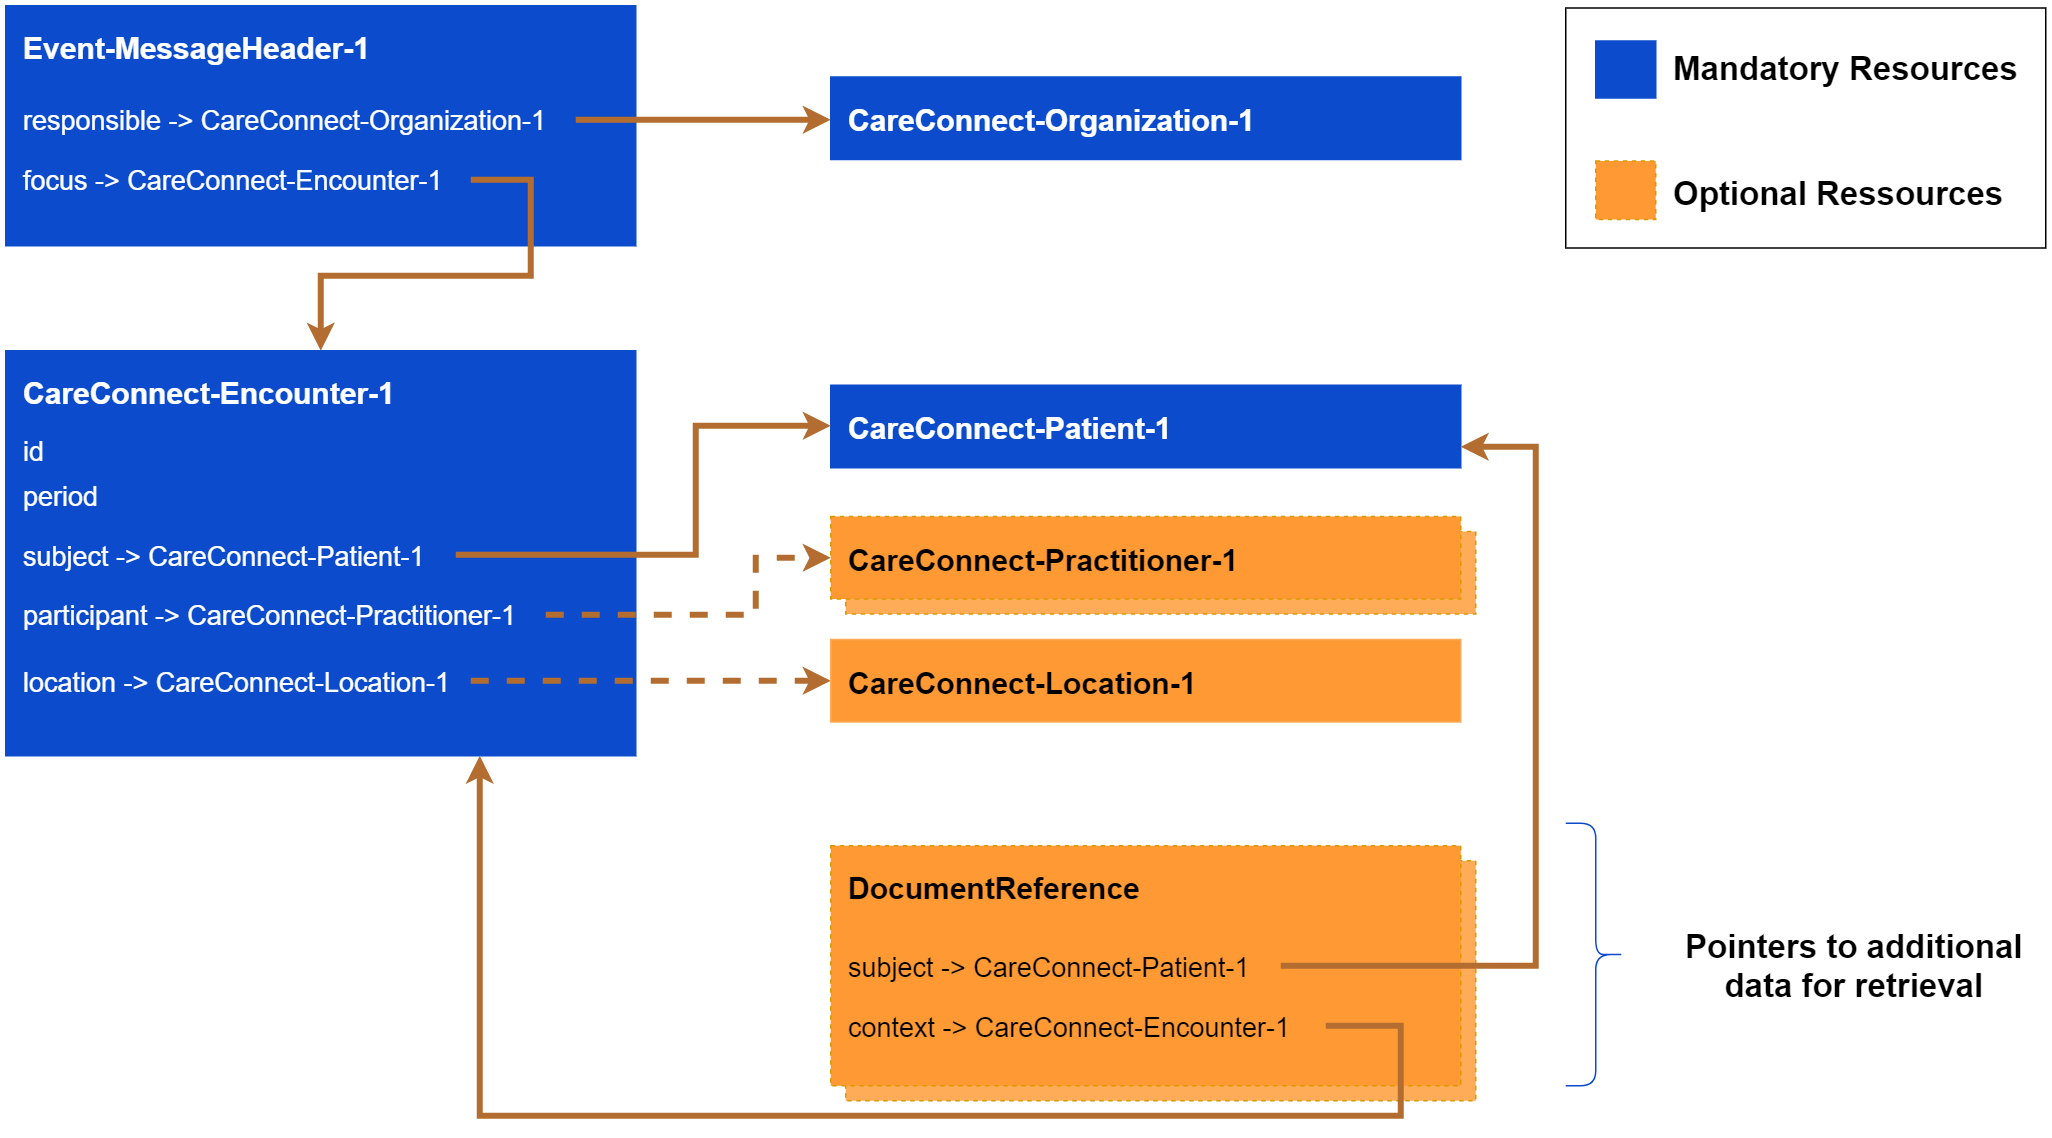
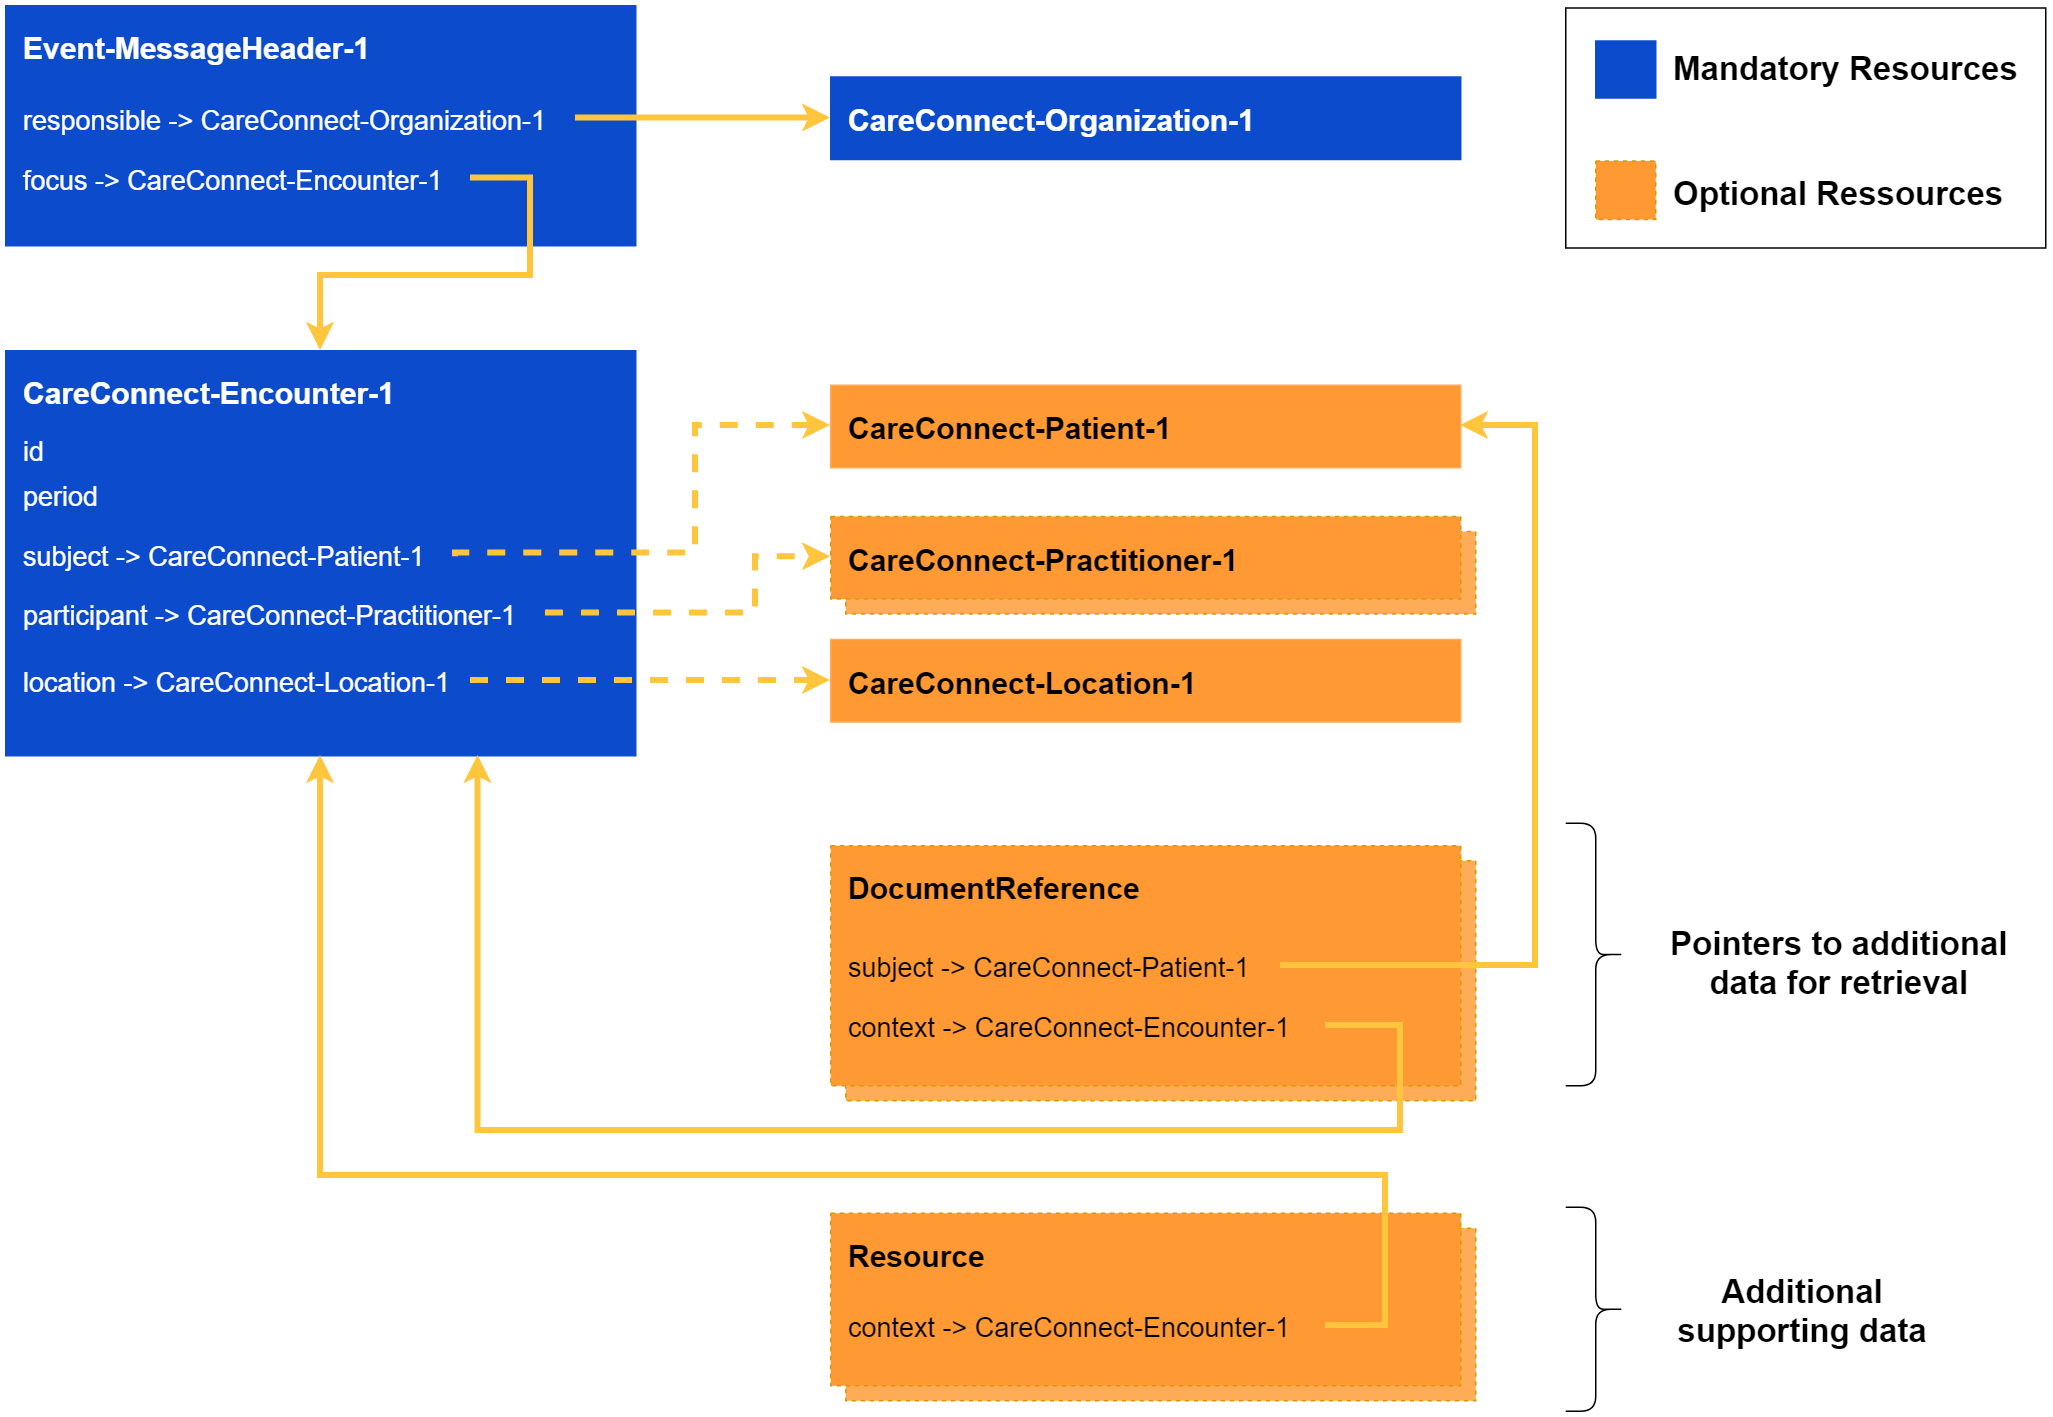
Updated encounter page based on discussions

diff --git a/js/customscripts.js b/js/customscripts.js
@@ -21,7 +21,30 @@ $( document ).ready(function() {
      */
     anchors.add('h2,h3,h4,h5');
 
+
+	// Handle Tab Panel Functionality -------------------------------------------------------------------------------------------------------------------
+	
+	// Add OnClick to tabPanelHeaders used in event messages pages for diagrams to toggle the visible tab body
+	$(".tabPanel .tabHeadings .tabHeading").click(function() {  
+		toggleTabPanel( $(this).attr("id") ); 
+	});
+	// Set first tabs to visible
+	toggleTabPanel($(".tabPanel .tabHeadings .tabHeading").first().attr("id"));
+
 });
+
+function toggleTabPanel(panelID) {
+	// Clear all panels
+	$(".tabBodies .tabBody").css("display","none");
+	
+	// Set the selected one as visible
+	var panelBodyID = "#" + panelID + "Body";
+	$(panelBodyID).css("display", "block");
+	
+	// Set the tab header to selected
+	$(".tabPanel .tabHeadings .tabHeading").removeClass("tabActive");
+	$("#" + panelID).addClass("tabActive");
+};
 
 // needed for nav tabs on pages. See Formatting > Nav tabs for more details.
 // script from http://stackoverflow.com/questions/10523433/how-do-i-keep-the-current-tab-active-with-twitter-bootstrap-after-a-page-reload

diff --git a/css/customstyles.css b/css/customstyles.css
@@ -1171,3 +1171,26 @@ div.box.box1 {
     fill: #4F81BD;
     fill-opacity: 0.2;
 } 
+
+.tabHeading {
+	background-color: #4b9ff1;
+	padding: 5px 10px 5px 10px;
+	color: white;
+}
+
+.tabHeading.tabActive {
+    background-color: #005eb8;
+    padding: 5px 10px 5px 10px;
+    color: white;
+}
+
+.tabBodies {
+    border: 2px solid #005eb8;
+    padding: 20px;
+	margin-top: 2px;
+}
+
+.tabPanel {
+	margin-top: 20px;
+	margin-bottom: 20px;
+}

diff --git a/pages/messages/messages/encounter_1.md b/pages/messages/messages/encounter_1.md
@@ -7,46 +7,61 @@ permalink: encounter_1.html
 summary: "Guidance and requirements for the Encounter event message"
 ---
 
-The `encounter` event is a generic event message which represent an encounter between a patient and a practitioner. The event message will be used in a number of different care settings for a variety of different use cases, therefore publishers will have to populate the encounter event message in a way that allows subscribers from any care setting to understand the encounter that took place. Subscribers also need to be aware that they may receive encounter events about encounters which are not relevant to their use case.
-
-The requirements and guidance on this page aims to set out a minimum set of information along with population guidance for the encounter event to allow subscribers from any care setting to understand the type of encounter that are published to the NEMS. The encounter event will contain contextual information about the encounter and define how publishers will share supporting information for the encounter.
-
+The `encounter` event is a generic event message which represent an encounter between a patient and a practitioner. The event message will be used in a number of different care settings for a variety of different use cases, therefore publishers should populate the encounter event message in a way that allows subscribers from any care setting to understand the encounter that took place. Subscribers also need to be aware that they will receive encounter events about encounters which are not relevant to their use cases.
 
 ## Event Message Content
 
-The `encounter` event is designed to be a [light weight](overview_msg_architecture_event_content.html) event message, which will contain minimal information to describe the encounter that occurred. As outlined on the [Message Content](overview_msg_architecture_event_content.html) page within the `Light Weight Event Messages` section, the supporting information for the event should not be included in the encounter event but rather made available by the publishers via an API and pointed to within the event message. Within the encounter event the pointers to additional information will be included in the form of DocumentReference resources. The DocumentReference resources that are included in the event message will shares the pointer model and retrieval mechanism with those defined by the [National Record Locator](https://developer.nhs.uk/apis/nrl/index.html) service.
+The `encounter` event is designed to be a [linked data](overview_msg_architecture_event_content.html) event message, which will contain minimal information to describe the encounter that occurred. As described on the [Message Content](overview_msg_architecture_event_content.html) page within the `Linked Data Event Messages` section, the supporting information for the event should not be included in the encounter event but rather made available by the publishers via an API and pointed to from the event message. Within the encounter event the pointers to additional information will be included in the form of DocumentReference resources. The DocumentReference resources that are included in the event message will shares the pointer model and retrieval mechanism with those defined by the [National Record Locator](https://developer.nhs.uk/apis/nrl/index.html) service.
 
 The focus of the encounter event message is an `Encounter` resource which will contain elements and references that give context to the event message.
 
-Programs who choose to use this encounter event will define what they want their publishers to populate in the event message and what their subscribers should look out for in the event message to fulfil their use case, but in addition to these program specific requirements all encounter event messages that are published to the NEMS **MUST** also be created inline with guidance and requirements specified on this page and on the [Generic Event Message Requirements](explore_genreic_event_requirements.html) page, to make the encounter event message useful and understandable by all subscribers of the event.
+Programs who choose to use this encounter event will define what they want their publishers to populate in the event message and what their subscribers should look out for in the event message to fulfil their use case, but in addition to these program specific requirements all encounter event messages that are published to the NEMS **MUST** also be created inline with guidance and requirements specified on this page and on the [Generic Event Message Requirements](explore_genreic_event_requirements.html) page, to make the encounter event message useful and understandable by all subscribers of the event type.
 
 
 ## Bundle structure
 
 The event message contains a mandatory `MessageHeader` resource as the first element within the event message bundle as per the FHIR messaging requirements. The MessageHeader resource references an `encounter` resource as the focus of the event message. The encounter resource represents the encounter that happened and should be populated as per the guidance below.
 
-Publishers **MUST** include DocumentReference resources pointing to supporting information, where supporting information is available. Where there is a strong use case for including the supporting information within the event message bundle, it may be include as resources but the event message **MUST** also contain a pointer to where the same data can be retrieved as the consistent method of accessing supporting information. Subscribers **MUST** not expect supporting information to be included as resources within the event message and should assume any data will be included as a pointer to be retrieved when the data is needed.
+Publishers **MUST** include DocumentReference resources pointing to supporting information, where supporting information is available. Where there is a strong use case for including the supporting information within the event message bundle, it may be include as resources but the event message **SHOULD** also contain a pointer to where the same data can be retrieved as the consistent method of accessing supporting information.
 
-The diagram below shows the referencing between resources within the encounter message bundle:
+<div class="tabPanel">
 
-<div style="text-align:center; margin-bottom:20px" >
-	<a href="images/messages/generic_encounter.png" target="_blank"><img src="images/messages/generic_encounter.png"></a>
+	<div class="tabHeadings">
+		<span class="tabHeading" id="logicalModelTab">Logical Model</span>
+		<span class="tabHeading" id="fhirModelTab">FHIR Model</span>
+	</div>
+	
+	<div class="tabBodies">
+	
+		<div class="tabBody" id="logicalModelTabBody">
+			The diagram below shows the logical model of data in the event message:
+			<div style="text-align:center; margin-bottom:20px" >
+				<a href="images/messages/generic_encounter_logical.png" target="_blank"><img src="images/messages/generic_encounter_logical.png"></a>
+			</div>
+		</div>
+
+		<div class="tabBody" id="fhirModelTabBody">
+			The diagram below shows the referencing between resources within the encounter message bundle:
+			<div style="text-align:center; margin-bottom:20px" >
+				<a href="images/messages/generic_encounter.png" target="_blank"><img src="images/messages/generic_encounter.png"></a>
+			</div>
+		</div>
+		
+	</div>
 </div>
 
 
 ## Encounter Message Life Cycle ##
 
-The `Encounter` event message is light weight and carries minimal data so the content of the event message is unlikely to change within the publishing system. The information within the publishers system pointed to by the DocumentReference resources is more likely to be updated or changed so the generic encounter event allow publishers to notify subscribers that the data available related to the encounter has been updated using the `messageEventType` extension within the `MessageHeader` resource to indicate `new`, `update` and `delete` in relation to the encounter.
+The `Encounter` event message is light weight and carries minimal data so the content of the event message is unlikely to change within the publishing system. There is still a chance the information within the event message will changed so the generic encounter event will support using the `messageEventType` extension within the `MessageHeader` resource to indicate `new`, `update` and `delete` versions of the event message when they are required.
 
-The message event type should be published by publishers as follows:
+The different types of the encounter event message should be published by publishers as follows:
 
 | Message Event Type | Description |
 | --- | --- |
-| new | A `new` encounter event should be sent when an encounter occurs between a practitioner and a patient. |
-| update | An `update` encounter event message should be sent when any information related to the encounter is updated (contained in the event message or pointed to by the DocumentReference resources within the event message).<br/><br/>The `update` encounter event MUST contain all the information which was shared in the `new` event message, and not just the information which has been updated. Resources should not be removed in the `update` event message if they were present in the `new` event message. If an included resource is incorrect and should not have been included in the event message, it should still be included in the `update` message but the resource should contain the `status` element with the value `entered-in-error` to indicate that it should not be used. Additional resources may be added within an `update` type of event message, for example a new DocumentReference resource may be added if additional information is added to the patient record and associated with the encounter.<br/><br/>Any additional resource and element requirements for update events will be outline in the population guidance below. |
-| delete | A `delete` encounter event message should be sent when the event message was sent incorrectly and should not have been sent, such as when the event was sent for the wrong patient. All resources should still be included in the event message. If a `delete` type of event is sent for an encounter event this MUST not be followed by any `update` type events for the same encounter. |
-
-If a subscriber receives multiple `Encounter` event messages for the same patient, the latest event message as indicated by the `meta.lastUpdated` element within the MessageHeader resource should be considered the source of truth for the patient's correct address.
+| new | A `new` encounter event should be sent when the encounter occurs. |
+| update | An `update` encounter event message should be sent when information related to the encounter event is updated. |
+| delete | A `delete` encounter event message should be sent when the encounter event message should not be used by subscribers, such as when the event sent incorrectly and should not have been sent. |
 
 
 ## Onward Delivery ##
@@ -80,7 +95,6 @@ The MessageHeader resource included as part of the event message SHALL conform t
 
 | Element | Cardinality | Additional Guidance |
 | --- | --- | --- |
-| meta.lastUpdated | 1..1 | DateTime when the patient record was updated with the details included in this event message. This element should be used for message sequencing |
 | extension(messageEventType) | 1..1 | Value as per the "Encounter Message Life Cycle" table above |
 | event | 1..1 | Fixed Value: encounter-1 (Encounter) |
 | responsible | 1..1 | This will reference the source organization of the event message. |
@@ -91,44 +105,14 @@ The MessageHeader resource included as part of the event message SHALL conform t
 
 The Encounter resource included in the event message SHALL conform to the [CareConnect-Encounter-1](https://fhir.hl7.org.uk/STU3/StructureDefinition/CareConnect-Encounter-1) constrained FHIR profile and the additional population guidance as per the table below:
 
-| Resource Cardinality | 1..1 |
+| Resource Cardinality | 1..* |
 
 | Element | Cardinality | Additional Guidance |
 | --- | --- | --- |
-| meta.tag | 0..* | Tags may be included to give more context to the encounter, such as a clinical pathway the encounter occurred on. Use of this field should be minimised, the primary indicator of the event that took place should be the `type` element within this encounter resource. |
-| status | 1..1 | The encounter may carry a status of  `in-progress` or `finished`. The status of `in-progress` should be used where the encounter event is published at the start of the encounter where additional encounter detail will be added at a later date, such as a hospital admission. The status of `finished` should be used when the encounter event is published at the end of an encounter when all data about the encounter is available. |
-| identifier | 0..* | The encounter should include a unique identifier to allow the encounter to be recognised between different event messages and other retrieval methods. |
-| subject | 1..1 | This will reference the patient resource representing the patient who is the subject of this event. The patient referenced from the encounter resource MUST NOT be changed as part of an `update` version of the same encounter event.  |
-| period.start | 1..1 | Then encounter event **MUST** include the dateTime when the encounter started. Partial dates **MUST NOT** be used, both date and time must be include. |
-| period.end | 0..1 | Then encounter event **MUST** include the dateTime when the encounter ended if available or calculatable by the publisher. Partial dates **MUST NOT** be used, both date and time must be include. |
-| **type** | 1..* | Publishers **MUST** include one or more SNOMED codes to indicate the type of encounter that took place. The "Encounter Type" table below highlights some generic high level SNOMED codes which should be used where appropriate.<br/><br/>The encounter event **MUST** include a type which describes the encounter at a high level but **MAY** also include additional type elements which describing the encounter at a lower level.<br/><br/>For example the encounter might contain a high level  type such as patient `Seen in GP's surgery` and then a low level type giving more context to the encounter such as  a `Maternity booking before 15th week`. |
+| period.start | 0..1 | Then encounter event **SHOULD** include the dateTime when the encounter started. |
+| period.end | 0..1 | Then encounter event **SHOULD** include the dateTime when the encounter ended if available or calculatable by the publisher. |
+| **type** | 0..* | The `type` element within the encounter **SHOULD** be used to identify the type of encounter which took place. |
 | participant | 0..* | Publishers **SHOULD** include the participants who were present during the encounter. |
-
-
-#### Encounter Types
-
-**Preferred High Level Types**
-
-The following high level SNOMED encounter types SHOULD be used in the `encounter` resource `type` element where applicable, but other SNOMED codes may be used where the high level types are not appropriate. Additional SNOMED codes describing the low level type of the encounter MAY also be included in the encounter where applicable.
-
-The purpose of the high level type within the encounter is to allow subscribers from any care setting to understand the encounter to a certain level, where they might not recognise a low level more program specific types within the encounter.
-
-| Code | Description |
-| --- | --- |
-| 185202000 | Seen in GP's surgery |
-| 305907000 | Seen in day hospital |
-| 185210004 | Seen in hospital casualty |
-| 270420001 | Seen in own home |
-| 386472008 | Telephone Consultation |
-| 307321000000107 | Video-link encounter |
-
-
-**Example Low Level Types**
-
-| Code | Description |
-| --- | --- |
-| 442162000 | Child 6 to 8 week examination |
-| 6551000000108 | Maternity booking before 15th week |
 
 
 ### [DocumentReference](https://fhir.nhs.uk/STU3/StructureDefinition/NRL-DocumentReference-1)
